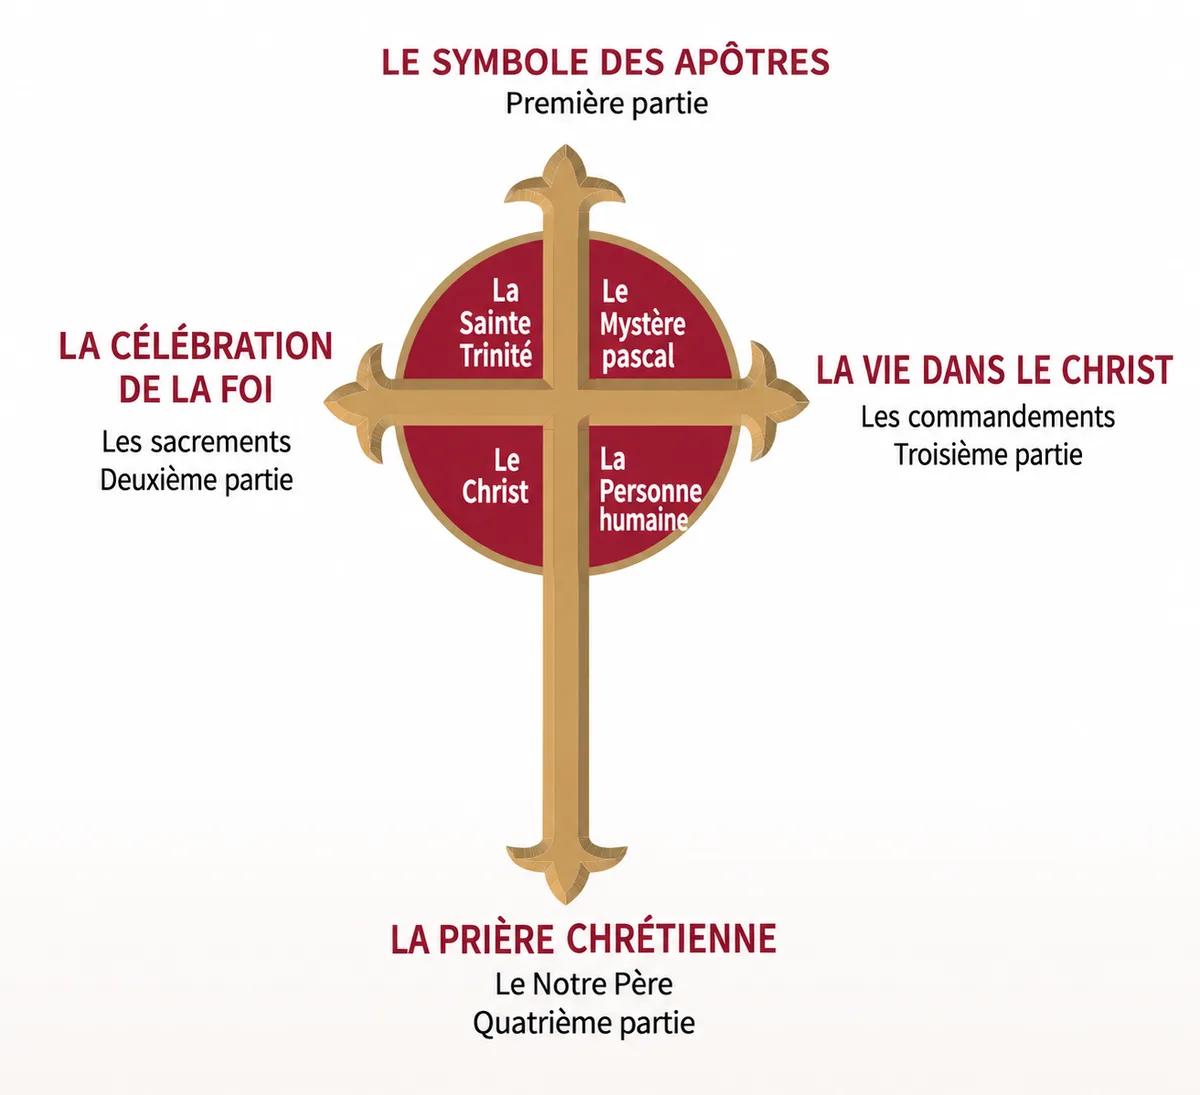
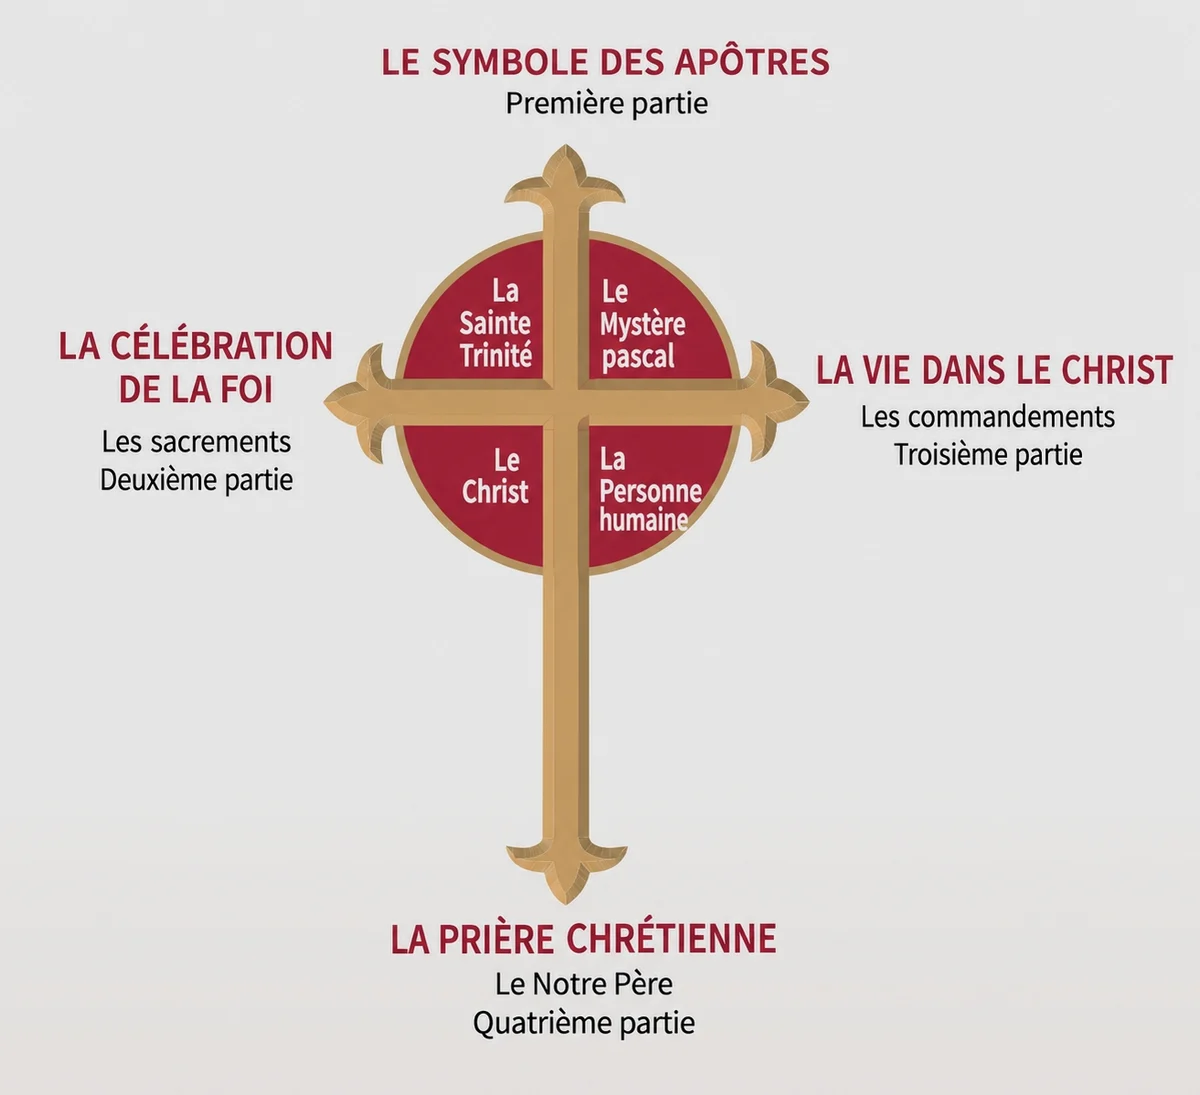
feat(panorama): per-part modal + apply title breaks to nested articles
- /ccc/[part] gains a "Voir le panorama →" trigger next to the
  Sections heading; opens PanoramaModal scoped to the current part
  via Panorama parts={[data.part]} headingLevel={3}
- Restore PanoramaModal.svelte (focus-trap, escape-to-close, scroll
  lock) — previously deleted now that we have a real consumer again
- Loosen Panorama's local Chapter type so chapters without an
  articles array (e.g. when called from a part page that doesn't
  need full nesting) still render
- Apply titleHtml() to article titles INSIDE chapter cards too, so
  the four Credo articles in chapter 2 also get their <br /> breaks
  ("Et en Jésus-Christ...", "...sous Ponce Pilate", "...descendu
  aux enfers", "...juger les vivants et les morts")
- Part-banner border down to 1px solid var(--color-muted)

a-propos:
- Re-encode the "why-study" diagram from the new ChatGPT source
  (600/1200 webp, q86); bump width/height attrs to 600x547 to match
  the new aspect ratio so the layout reservation stays correct

diff --git a/src/lib/components/ui/PanoramaModal.svelte b/src/lib/components/ui/PanoramaModal.svelte
@@ -1,0 +1,163 @@
+<script lang="ts">
+	import type { Snippet } from 'svelte';
+	import { fade, fly } from 'svelte/transition';
+
+	let {
+		open = $bindable(false),
+		title = 'Panorama',
+		children
+	}: {
+		open?: boolean;
+		title?: string;
+		children: Snippet;
+	} = $props();
+
+	let dialogEl: HTMLElement | undefined = $state();
+	let lastTrigger: HTMLElement | null = null;
+
+	function close() {
+		open = false;
+	}
+
+	$effect(() => {
+		if (!open) return;
+		if (typeof document === 'undefined') return;
+
+		lastTrigger = document.activeElement as HTMLElement | null;
+		const html = document.documentElement;
+		const prevOverflow = html.style.overflow;
+		html.style.overflow = 'hidden';
+
+		// Focus the close button on open.
+		queueMicrotask(() => {
+			const closeBtn = dialogEl?.querySelector<HTMLButtonElement>('button[aria-label="Fermer"]');
+			closeBtn?.focus();
+		});
+
+		const onKeydown = (e: KeyboardEvent) => {
+			if (e.key === 'Escape') {
+				e.preventDefault();
+				close();
+				return;
+			}
+			if (e.key !== 'Tab' || !dialogEl) return;
+			const focusables = Array.from(
+				dialogEl.querySelectorAll<HTMLElement>(
+					'a[href], button:not([disabled]), [tabindex]:not([tabindex="-1"])'
+				)
+			);
+			if (focusables.length === 0) return;
+			const first = focusables[0]!;
+			const last = focusables[focusables.length - 1]!;
+			const active = document.activeElement;
+			if (e.shiftKey && active === first) {
+				e.preventDefault();
+				last.focus();
+			} else if (!e.shiftKey && active === last) {
+				e.preventDefault();
+				first.focus();
+			}
+		};
+		document.addEventListener('keydown', onKeydown);
+
+		return () => {
+			html.style.overflow = prevOverflow;
+			document.removeEventListener('keydown', onKeydown);
+			lastTrigger?.focus?.();
+			lastTrigger = null;
+		};
+	});
+</script>
+
+{#if open}
+	<div
+		class="panorama-backdrop"
+		onclick={close}
+		role="presentation"
+		transition:fade={{ duration: 160 }}
+	></div>
+
+	<div
+		bind:this={dialogEl}
+		class="panorama-dialog"
+		role="dialog"
+		aria-modal="true"
+		aria-label={title}
+		transition:fly={{ y: 12, duration: 200 }}
+	>
+		<header class="panorama-dialog-head">
+			<h2 class="panorama-dialog-title">{title}</h2>
+			<button type="button" class="panorama-dialog-close" aria-label="Fermer" onclick={close}>
+				✕
+			</button>
+		</header>
+		<div class="panorama-dialog-body">
+			{@render children()}
+		</div>
+	</div>
+{/if}
+
+<style>
+	.panorama-backdrop {
+		position: fixed;
+		inset: 0;
+		z-index: calc(var(--z-modal) - 1);
+		background: color-mix(in srgb, var(--color-fg) 36%, transparent);
+		backdrop-filter: blur(2px);
+		cursor: pointer;
+	}
+	.panorama-dialog {
+		position: fixed;
+		inset: 2.5vh 1rem 2.5vh 1rem;
+		max-width: 1100px;
+		margin: 0 auto;
+		z-index: var(--z-modal);
+		background: var(--color-bg);
+		border: 1px solid var(--color-border);
+		border-radius: 6px;
+		box-shadow: 0 20px 60px -20px color-mix(in srgb, var(--color-fg) 30%, transparent);
+		display: flex;
+		flex-direction: column;
+		min-height: 0;
+		overflow: hidden;
+	}
+	.panorama-dialog-head {
+		display: flex;
+		align-items: center;
+		justify-content: space-between;
+		gap: 1rem;
+		padding: 0.85rem 1.25rem;
+		border-bottom: 1px solid var(--color-border);
+		background: color-mix(in srgb, var(--color-border) 10%, transparent);
+	}
+	.panorama-dialog-title {
+		font-family: var(--font-ui);
+		font-size: 0.72rem;
+		font-weight: 600;
+		letter-spacing: 0.22em;
+		text-transform: uppercase;
+		color: var(--color-muted);
+		margin: 0;
+	}
+	.panorama-dialog-close {
+		appearance: none;
+		border: 0;
+		background: transparent;
+		width: 32px;
+		height: 32px;
+		border-radius: 4px;
+		font-size: 1rem;
+		color: var(--color-muted);
+		cursor: pointer;
+	}
+	.panorama-dialog-close:hover {
+		background: color-mix(in srgb, var(--color-accent) 12%, transparent);
+		color: var(--color-accent);
+	}
+	.panorama-dialog-body {
+		flex: 1 1 auto;
+		min-height: 0;
+		overflow-y: auto;
+		padding: 1.5rem clamp(1rem, 3vw, 2rem) 2rem;
+	}
+</style>

diff --git a/src/routes/ccc/[part]/+page.svelte b/src/routes/ccc/[part]/+page.svelte
@@ -1,6 +1,8 @@
 <script lang="ts">
 	import ParagraphView from '$lib/components/ccc/ParagraphView.svelte';
 	import NavCard from '$lib/components/ui/NavCard.svelte';
+	import Panorama from '$lib/components/ui/Panorama.svelte';
+	import PanoramaModal from '$lib/components/ui/PanoramaModal.svelte';
 	import { scrollSpy } from '$lib/utils/scrollSpy';
 	import { SvelteMap } from 'svelte/reactivity';
 	import type { PageData } from './$types';
@@ -12,6 +14,8 @@
 		for (const h of data.part.intro_headings ?? []) m.set(h.paragraph_start, h);
 		return m;
 	});
+
+	let panoramaOpen = $state(false);
 </script>
 
 <svelte:head>
@@ -73,7 +77,17 @@
 	{/if}
 
 	{#if data.part.sections.length > 0}
-		<h2 class="font-ui text-sm uppercase tracking-wider text-muted mt-12 mb-3">Sections</h2>
+		<div class="flex items-center justify-between gap-4 mt-12 mb-3 max-md:px-4">
+			<h2 class="font-ui text-sm uppercase tracking-wider text-muted">Sections</h2>
+			<button
+				type="button"
+				class="panorama-trigger"
+				aria-haspopup="dialog"
+				onclick={() => (panoramaOpen = true)}
+			>
+				Voir le panorama <span class="panorama-trigger-arrow" aria-hidden="true">→</span>
+			</button>
+		</div>
 		<ol class="space-y-6">
 			{#each data.part.sections as section (section.slug)}
 				<li>
@@ -120,3 +134,35 @@
 		{/if}
 	</nav>
 </main>
+
+{#if data.part.sections.length > 0}
+	<PanoramaModal bind:open={panoramaOpen} title={data.part.title}>
+		<Panorama parts={[data.part]} headingLevel={3} />
+	</PanoramaModal>
+{/if}
+
+<style>
+	.panorama-trigger {
+		appearance: none;
+		background: transparent;
+		border: none;
+		padding: 0;
+		font-family: var(--font-ui);
+		font-size: 0.78rem;
+		font-weight: 600;
+		letter-spacing: 0.18em;
+		text-transform: uppercase;
+		color: var(--color-accent);
+		cursor: pointer;
+	}
+	.panorama-trigger:hover {
+		color: var(--color-accent-text);
+	}
+	.panorama-trigger:hover .panorama-trigger-arrow {
+		transform: translateX(3px);
+	}
+	.panorama-trigger-arrow {
+		display: inline-block;
+		transition: transform 200ms cubic-bezier(0.22, 1, 0.36, 1);
+	}
+</style>

diff --git a/src/lib/components/ui/Panorama.svelte b/src/lib/components/ui/Panorama.svelte
@@ -13,7 +13,7 @@
 		title: string;
 		number?: number;
 		range?: Range;
-		articles: Article[];
+		articles?: Article[];
 		headings?: Heading[];
 	};
 	type Section = {
@@ -136,12 +136,14 @@
 											{@html titleHtml(chapter.slug, chapter.title)}
 										</h4>
 									</a>
-									{#if chapter.articles.length > 0}
+									{#if chapter.articles && chapter.articles.length > 0}
 										<ul class="pano-cell-list">
 											{#each chapter.articles as article (article.slug)}
 												<li>
 													<a href="{href}/{article.slug}">
-														<span class="pano-cell-art">{article.title}</span>
+														<span class="pano-cell-art">
+															{@html titleHtml(article.slug, article.title)}
+														</span>
 														{#if article.number !== undefined}
 															<span class="pano-cell-art-num">Article {article.number}</span>
 														{/if}
@@ -206,7 +208,7 @@
 	.pano-banner {
 		text-align: center;
 		padding: 1.5rem 1rem 1.4rem;
-		border-bottom: 2px solid var(--color-border);
+		border-bottom: 1px solid var(--color-muted);
 		margin-bottom: 2.25rem;
 	}
 	.pano-banner-eyebrow {

diff --git a/src/routes/a-propos/+page.svelte b/src/routes/a-propos/+page.svelte
@@ -61,8 +61,8 @@
 			src="/img/why-study-catechism-600.webp"
 			srcset="/img/why-study-catechism-600.webp 1x, /img/why-study-catechism-1200.webp 2x"
 			alt="Diagramme en croix des quatre parties du Catéchisme : Le Symbole des Apôtres (première partie), La célébration de la foi (deuxième partie, les sacrements), La vie dans le Christ (troisième partie, les commandements), La prière chrétienne (quatrième partie, le Notre Père) ; au centre, la Sainte Trinité, le Mystère pascal, le Christ et la personne humaine."
-			width="500"
-			height="450"
+			width="600"
+			height="547"
 			loading="lazy"
 		/>
 		<figcaption>Les quatre parties du Catéchisme, articulées autour du Christ.</figcaption>
